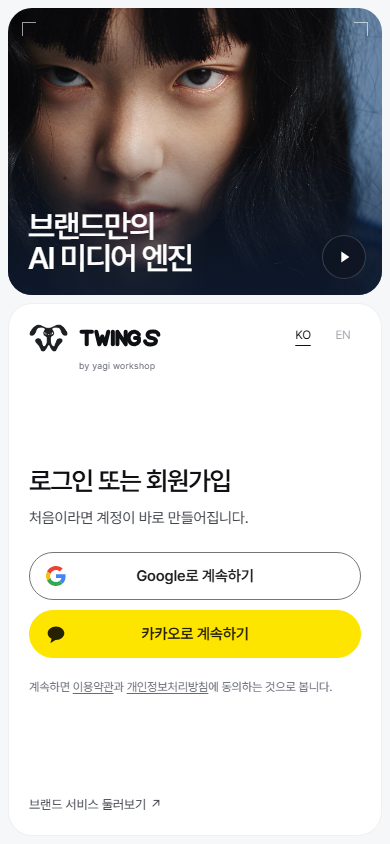
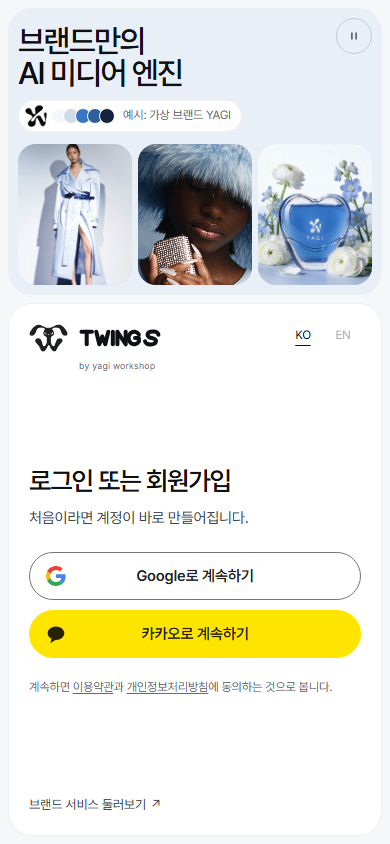
feat(brand-auth): 로그인 무대를 예시 브랜드의 벤토로 바꾸고 3차 검증 지적 반영
어두운 히어로 필름 대신 예시 브랜드의 룩·필름·제품을 같은 색의 벤토로 보여
"브랜드만의 AI 미디어 엔진"을 화면으로 증명한다. 로그인을 h1로 올리고, 초대
전용 제목을 더하고, 작은 휴대폰과 초대 휴대폰에서는 버튼을 먼저 보인다. 필름은
화면에 있을 때만 재생한다.

diff --git a/components/auth/brand-entry.module.css b/components/auth/brand-entry.module.css
@@ -1,11 +1,12 @@
 /*
  * The brand sign-in door. Values copy lib/design/identity.ts, like components/brand-studio/v7.module.css.
- * Techniques (docs/design/TOOLBOX.md, four): inset full-bleed film frame with crosshairs, double-ring card
- * with concentric radius, one dark-glass control on the film, the spring on press and focus.
+ * Techniques (docs/design/TOOLBOX.md, four): gallery wall of one brand's media, blur-to-sharp reveal,
+ * double-ring card with concentric radius, the spring on press. Dark glass only on the media chips.
  */
 .page {
   --id-paper: #ffffff;
   --id-canvas: #f6f7f9;
+  --id-sky: #e8eff7;
   --id-ink: #0e1013;
   --id-body: #41444d;
   --id-muted: #676b75;
@@ -29,45 +30,24 @@
 }
 .layout { display: grid; grid-template-columns: minmax(0, 1fr) minmax(380px, 460px); gap: 14px; min-height: calc(100svh - 28px); }
 
-/* ---------- The film ---------- */
-.frame { position: relative; overflow: hidden; min-width: 0; border-radius: 24px; background: #e8eff7; isolation: isolate; }
-.film { position: absolute; inset: 0; width: 100%; height: 100%; object-fit: cover; object-position: 50% 30%; }
-.scrim { position: absolute; inset: 0; background: linear-gradient(0deg, rgb(14 28 52 / 0.78) 0%, rgb(14 28 52 / 0.46) 26%, rgb(14 28 52 / 0) 56%); }
-.title {
-  position: absolute;
-  left: clamp(20px, 4vw, 56px);
-  right: 88px;
-  bottom: clamp(24px, 4vw, 56px);
-  color: #ffffff;
-  font-size: clamp(2.25rem, 4.6vw, 4.75rem);
-  font-weight: 540;
-  line-height: 1.02;
-  letter-spacing: -0.052em;
-  white-space: pre-line;
-  word-break: keep-all;
-}
-.pause {
-  position: absolute;
-  right: clamp(20px, 3vw, 32px);
-  bottom: clamp(24px, 4vw, 56px);
-  display: grid;
-  place-items: center;
-  width: 44px;
-  height: 44px;
-  border: 1px solid rgb(255 255 255 / 0.18);
-  border-radius: 999px;
-  color: #ffffff;
-  background: rgb(18 18 22 / 0.65);
-  -webkit-backdrop-filter: blur(24px) saturate(190%);
-  backdrop-filter: blur(24px) saturate(190%);
-  cursor: pointer;
-}
-.pause svg { width: 18px; height: 18px; }
-.frame .pause:focus-visible { outline-color: #ffffff; }
-.crosshairs { position: absolute; inset: 14px; pointer-events: none; }
-.crosshairs::before, .crosshairs::after { content: ''; position: absolute; top: 0; width: 14px; height: 14px; border-color: rgb(255 255 255 / 0.6); border-style: solid; }
-.crosshairs::before { left: 0; border-width: 1px 0 0 1px; }
-.crosshairs::after { right: 0; border-width: 1px 1px 0 0; }
+/* ---------- One brand's world: the same palette through look, film and product ---------- */
+.stage { position: relative; display: flex; flex-direction: column; overflow: hidden; min-width: 0; min-height: 0; border-radius: 24px; background: var(--id-sky); isolation: isolate; }
+.stageHead { padding: clamp(24px, 2.8vw, 44px) clamp(14px, 1.4vw, 22px) 0; }
+.title { color: var(--id-ink); font-size: clamp(2rem, 3.9vw, 4rem); font-weight: 540; line-height: 1.02; letter-spacing: -0.052em; white-space: pre-line; word-break: keep-all; }
+.kit { display: flex; width: fit-content; align-items: center; gap: 12px; margin-top: 18px; padding: 7px 14px 7px 10px; border: 1px solid rgb(0 0 0 / 0.06); border-radius: 999px; background: var(--id-paper); font-size: 12px; color: var(--id-muted); }
+.kit img { width: 22px; height: 22px; }
+.swatches { display: flex; }
+.swatches i { width: 16px; height: 16px; border-radius: 50%; border: 1.5px solid var(--id-paper); margin-left: -4px; }
+.wall { flex: 1; min-height: 0; display: grid; grid-template-columns: 1.08fr 1fr 1fr; grid-template-rows: repeat(2, minmax(0, 1fr)); gap: clamp(8px, 0.9vw, 14px); margin-top: clamp(20px, 2.4vw, 32px); padding: 0 clamp(14px, 1.4vw, 22px) clamp(14px, 1.4vw, 22px); }
+.tile { position: relative; overflow: hidden; border-radius: 18px; background: #d0dbe7; animation: focusIn 900ms cubic-bezier(0.22, 1, 0.36, 1) both; animation-delay: calc(var(--i) * 70ms); }
+.tile:nth-child(-n+2) { grid-row: span 2; }
+.tile img, .tile video { position: absolute; inset: 0; width: 100%; height: 100%; object-fit: cover; }
+.tile:nth-child(1) img { object-position: 50% 30%; }
+.tile:nth-child(4) video { object-position: 50% 62%; }
+.pause { position: absolute; z-index: 1; top: clamp(14px, 1.8vw, 26px); right: clamp(14px, 1.4vw, 22px); display: grid; place-items: center; width: 36px; height: 36px; border: 1px solid rgb(14 16 19 / 0.16); border-radius: 999px; color: var(--id-body); cursor: pointer; }
+.pause::after { content: ''; position: absolute; inset: -4px; }
+.pause svg { width: 14px; height: 14px; }
+@keyframes focusIn { from { opacity: 0; filter: blur(8px); transform: translateY(14px); } to { opacity: 1; filter: blur(0); transform: none; } }
 
 /* ---------- The door ---------- */
 .card {
@@ -87,8 +67,9 @@
 .languages a { min-width: 36px; min-height: 44px; display: grid; place-items: center; color: var(--id-muted); }
 .languages a[aria-current] { color: var(--id-ink); text-decoration: underline; text-underline-offset: 6px; }
 .login { margin: auto 0; padding: 48px 0; }
-.login h2 { font-size: clamp(1.625rem, 2.2vw, 2rem); font-weight: 560; line-height: 1.06; letter-spacing: -0.045em; word-break: keep-all; }
+.login h1 { font-size: clamp(1.625rem, 2.2vw, 2rem); font-weight: 560; line-height: 1.06; letter-spacing: -0.045em; word-break: keep-all; }
 .loginHint { margin-top: 12px; font-size: 15px; line-height: 1.62; color: var(--id-body); }
+.login [role='alert'] { padding: 12px 14px; border: 0; border-radius: 14px; background: color-mix(in srgb, var(--id-accent) 9%, var(--id-paper)); color: var(--id-ink); font-size: 14px; font-weight: 500; }
 .providers { display: flex; flex-direction: column; gap: 10px; margin-top: 32px; }
 /* Pills, as every button on this side. Google's and Kakao's colours and marks stay theirs. */
 .providers a { border-radius: 999px; transition: transform 240ms cubic-bezier(0.22, 1, 0.36, 1); transition: transform 240ms var(--id-spring); }
@@ -116,19 +97,39 @@
 .address p { border-color: var(--id-line-strong); border-radius: 18px; background: var(--id-canvas); }
 .webviewHint { margin-top: 14px; font-size: 13px; line-height: 1.62; color: var(--id-muted); word-break: keep-all; }
 
+@media (max-height: 700px) and (min-width: 861px) {
+  .login { padding: 20px 0; }
+  .providers { margin-top: 20px; }
+}
 @media (max-width: 860px) {
   .page { padding: 8px; }
-  .layout { grid-template-columns: minmax(0, 1fr); grid-template-rows: 34svh auto; gap: 8px; min-height: calc(100svh - 16px); }
-  .frame { min-height: 220px; }
-  .title { font-size: clamp(1.75rem, 8vw, 2.5rem); right: 72px; bottom: 20px; left: 20px; }
-  .pause { right: 16px; bottom: 16px; }
-  .film { object-position: 76% 40%; }
+  .layout { grid-template-columns: minmax(0, 1fr); grid-template-rows: minmax(276px, 34svh) 1fr; gap: 8px; min-height: calc(100svh - 16px); }
+  .stageHead { padding: 18px 10px 0; }
+  .title { font-size: clamp(1.75rem, 8vw, 2.5rem); padding-right: 40px; }
+  .kit { margin-top: 10px; padding: 4px 10px 4px 6px; gap: 8px; }
+  .wall { grid-template-columns: repeat(3, 1fr); grid-template-rows: minmax(0, 1fr); margin-top: 12px; padding: 0 10px 10px; gap: 6px; }
+  .tile:nth-child(4) { display: none; }
+  .tile:nth-child(-n+2) { grid-row: auto; }
+  .tile:nth-child(1) img { object-position: 50% 22%; }
+  .pause { top: 10px; right: 10px; }
   .card { padding: 20px 20px 8px; }
-  .login { padding: 28px 0 20px; }
+  .login { max-width: 440px; padding: 28px 0 20px; }
   .providers { margin-top: 22px; }
   .webview { margin: 0 auto; transform: none; position: relative; top: 8svh; }
 }
+/* Short phones, and invited teammates: the door comes first. */
+@media (max-width: 860px) and (max-height: 760px) {
+  .layout { grid-template-rows: auto 1fr; }
+  .stage .wall, .stage .pause { display: none; }
+  .stageHead { padding-bottom: 16px; }
+}
+@media (max-width: 860px) {
+  .layout:has(.stage[data-compact]) { grid-template-rows: auto 1fr; }
+  .stage[data-compact] .wall, .stage[data-compact] .pause { display: none; }
+  .stage[data-compact] .stageHead { padding-bottom: 16px; }
+}
 @media (prefers-reduced-motion: reduce) {
+  .tile { animation: none; }
   .providers a { transition: none; }
   .providers a:hover, .providers a:active { transform: none; }
 }

diff --git a/components/auth/brand-entry-stage.tsx b/components/auth/brand-entry-stage.tsx
@@ -1,0 +1,94 @@
+'use client';
+
+import { useEffect, useRef, useState, type CSSProperties } from 'react';
+import styles from './brand-entry.module.css';
+
+/** The landing's demo brand (components/brand-studio/v7.tsx): one palette through look, film and product. */
+const PALETTE = ['#f3f7fa', '#d0dbe7', '#3875c5', '#2e5f9f', '#16233f'] as const;
+const WALL = [
+  { image: 'look-coat.webp' },
+  { image: 'v7/feed-blue.jpg', film: 'v7/feed-blue.mp4' },
+  { image: 'cut-flower.webp' },
+  { image: 'v7/dir-clip.jpg', film: 'v7/dir-clip.mp4' },
+] as const;
+
+/**
+ * What a brand gets, beside the sign-in door. Auth stays server-rendered; this island only plays the two
+ * short films, and only while they are on screen. They stay on their posters under prefers-reduced-motion,
+ * and the reader can pause them.
+ */
+export function BrandEntryStage({ title, exampleLabel, playLabel, pauseLabel, assetOrigin, compact }: {
+  title: string;
+  exampleLabel: string;
+  playLabel: string;
+  pauseLabel: string;
+  assetOrigin: string;
+  /** Invited teammates already know why they are here: phones go straight to the door. */
+  compact: boolean;
+}) {
+  const wall = useRef<HTMLDivElement>(null);
+  const wanted = useRef(false);
+  const onScreen = useRef(new Set<HTMLVideoElement>());
+  const [playing, setPlaying] = useState(false);
+  const src = (name: string) => `${assetOrigin}/reel/landing/${name}`;
+
+  const toggle = (play: boolean) => {
+    wanted.current = play;
+    setPlaying(play);
+    onScreen.current.forEach(film => {
+      if (play) void film.play().catch(() => {});
+      else film.pause();
+    });
+  };
+
+  useEffect(() => {
+    if (!window.matchMedia('(prefers-reduced-motion: reduce)').matches) {
+      wanted.current = true;
+      setPlaying(true);
+    }
+    const visible = onScreen.current;
+    const observer = new IntersectionObserver(entries => {
+      entries.forEach(entry => {
+        const film = entry.target as HTMLVideoElement;
+        if (entry.isIntersecting) {
+          visible.add(film);
+          if (wanted.current) void film.play().catch(() => {});
+        } else {
+          visible.delete(film);
+          film.pause();
+        }
+      });
+    });
+    wall.current?.querySelectorAll('video').forEach(film => observer.observe(film));
+    return () => observer.disconnect();
+  }, []);
+
+  return (
+    <section data-brand-auth-stage data-compact={compact || undefined} className={styles.stage}>
+      <div className={styles.stageHead}>
+        <p className={styles.title}>{title}</p>
+        <p data-brand-auth-kit className={styles.kit}>
+          {/* eslint-disable-next-line @next/next/no-img-element */}
+          <img src={`${assetOrigin}/brand/yagi-mark-black.png`} alt="" width={22} height={22} />
+          <span className={styles.swatches} aria-hidden="true">{PALETTE.map(hex => <i key={hex} style={{ background: hex }} />)}</span>
+          {exampleLabel}
+        </p>
+      </div>
+      <button type="button" data-brand-auth-pause className={styles.pause} aria-label={playing ? pauseLabel : playLabel}
+        onClick={() => toggle(!playing)}>
+        {playing ? <svg viewBox="0 0 20 20" aria-hidden="true"><path d="M7 5v10M13 5v10" stroke="currentColor" strokeWidth="2" /></svg>
+          : <svg viewBox="0 0 20 20" aria-hidden="true"><path d="m7 4 9 6-9 6Z" fill="currentColor" /></svg>}
+      </button>
+      <div ref={wall} className={styles.wall} aria-hidden="true">
+        {WALL.map((item, index) => (
+          <div key={item.image} className={styles.tile} style={{ '--i': index } as CSSProperties}>
+            {'film' in item
+              ? <video src={src(item.film)} poster={src(item.image)} muted loop playsInline preload="metadata" />
+              // eslint-disable-next-line @next/next/no-img-element
+              : <img src={src(item.image)} alt="" width={1000} height={1500} decoding="async" />}
+          </div>
+        ))}
+      </div>
+    </section>
+  );
+}

diff --git a/app/(app)/auth/choose/page.tsx b/app/(app)/auth/choose/page.tsx
@@ -8,14 +8,14 @@ import { legalDocument } from '@/lib/legal/documents';
 import { legalHref } from '@/lib/legal/links';
 import { authReturnPath, isAdminPath, isBrandPath } from '@/lib/routing/surfaces';
 import { publicHref, requestSurface } from '@/lib/routing/request-surface';
-import { BrandEntryFilm } from '@/components/auth/brand-entry-film';
+import { BrandEntryStage } from '@/components/auth/brand-entry-stage';
 import styles from '@/components/auth/brand-entry.module.css';
 
 /**
  * `/auth/choose?next=…&locale=…` — the sign-in door (docs/TEMPLATES-IA.md §8).
  *
  * Provider links, consent and copy render on the server, without a session read. Brand entry
- * sets the door beside the /brands hero film; consumer/admin entry stays compact. The (app) layout supplies noindex and force-dynamic; middleware owns locale/host.
+ * sets the door beside the demo brand's world from /brands; consumer/admin entry stays compact. The (app) layout supplies noindex and force-dynamic; middleware owns locale/host.
  *
  * Both buttons follow their owner's brand rules: Google's is white with the four-colour "G", the
  * #747775 border and the name in mixed case (never "GOOGLE", so no `uppercase` here); Kakao's is
@@ -141,11 +141,12 @@ export default async function ChooseProviderPage(props: RouteProps) {
   if (brandEntry) {
     const copy = dict.auth.brandEntry;
     const hero = dict.brandLanding.v7.hero;
+    const invited = nextPath === '/brand/invite';
     return (
       <main data-auth-choose data-brand-auth className={styles.page}>
         <div className={styles.layout}>
-          <BrandEntryFilm title={hero.title} filmLabel={hero.filmLabel} playLabel={copy.play} pauseLabel={copy.pause}
-            assetOrigin={admin ? 'https://twings.app' : ''} />
+          <BrandEntryStage title={hero.title} exampleLabel={dict.brandLanding.v7.first.kit.example} playLabel={copy.play} pauseLabel={copy.pause}
+            assetOrigin={admin ? 'https://twings.app' : ''} compact={invited} />
           <div className={styles.card}>
             <header className={styles.header}>
               <a href={publicHref(`/${locale}`, admin)} className={styles.logo}>
@@ -155,8 +156,8 @@ export default async function ChooseProviderPage(props: RouteProps) {
               <nav data-auth-language className={styles.languages}>{languageLinks}</nav>
             </header>
             <section className={styles.login} aria-labelledby="brand-auth-title">
-              <h2 id="brand-auth-title">{dict.auth.chooseTitle}</h2>
-              <p className={styles.loginHint}>{dict.auth.chooseLede}</p>
+              <h1 id="brand-auth-title">{invited ? copy.inviteTitle : dict.auth.chooseTitle}</h1>
+              <p className={styles.loginHint}>{invited ? dict.brandWorkspace.inviteLogin : dict.auth.chooseLede}</p>
               {authError}
               <div className={styles.providers}>{providers}</div>
               <p data-auth-legal className={styles.legal}>{legal}</p>

diff --git a/tests/routes/brand-auth-experience.test.tsx b/tests/routes/brand-auth-experience.test.tsx
@@ -15,14 +15,20 @@ describe('brand login experience', () => {
     context.surface = 'brand';
     const html = await page();
     expect(html).toContain('data-brand-auth');
-    expect(html).toContain('data-brand-auth-film');
+    expect(html).toContain('data-brand-auth-stage');
     expect(html).toContain('AI 미디어 엔진');
     expect(html).toContain('next=%2Fbrand');
     expect(html).toContain('https://twings.app/ko/legal/terms');
-    // The landing's own hero film, from the host that serves public media; playback starts in the island.
-    expect(html).toContain('https://twings.app/reel/landing/v7/hero.mp4');
-    expect(html).toContain('poster="https://twings.app/reel/landing/v7/hero.jpg"');
+    // Public media of the landing's demo brand, from the host that serves it; playback starts in the island.
+    expect(html).toContain('https://twings.app/reel/landing/cut-flower.webp');
+    expect(html).toContain('https://twings.app/reel/landing/v7/dir-clip.mp4');
     expect(html).not.toContain('autoPlay=');
+    // Clearly a demo brand, not a client: the kit carries the example label.
+    expect(html).toContain('data-brand-auth-kit');
+    // A login stays calm: not the landing's fast-cut dark hero again.
+    expect(html).not.toContain('v7/hero');
+    // The act is the page's heading; the category line beside it is not.
+    expect(html.match(/<h1[^>]*>[^<]*/)?.[0]).toContain('로그인 또는 회원가입');
     // One message: the old agency pitch and its pink carousel stay gone.
     expect(html).not.toContain('목표와 예산');
     expect(html).not.toContain('public-content/');
@@ -60,10 +66,16 @@ describe('brand login experience', () => {
   it('renders English copy and usable non-JavaScript login links with a static initial showcase', async () => {
     const html = await page({ next: '/brand', locale: 'en' });
     expect(html).toContain('Your brand');
-    expect(html).toContain('data-brand-auth-film');
+    expect(html).toContain('data-brand-auth-stage');
     expect(html).toContain('data-brand-auth-pause');
     expect(html).toContain('href="/auth/signin?provider=google');
     expect(html).not.toContain('목표와 예산');
+  });
+  it('tells invited readers which account to use', async () => {
+    const invited = await page({ next: '/brand/invite' });
+    expect(invited).toContain('초대받은 이메일 계정으로 로그인해 주세요');
+    expect(invited.match(/<h1[^>]*>[^<]*/)?.[0]).toContain('초대를 수락하려면');
+    expect(await page({ next: '/brand' })).not.toContain('초대받은 이메일 계정으로');
   });
   it('keeps the consumer and admin doors as they were', async () => {
     for (const surface of ['consumer', 'admin']) {

diff --git a/scripts/sweep-anon.ts b/scripts/sweep-anon.ts
@@ -829,7 +829,7 @@ async function sweepWebViewSignin(): Promise<void> {
     const brandChooser = await request(`/auth/choose?next=%2Fbrand&locale=${locale}`);
     expectEqual(`brand chooser ${locale} renders`, brandChooser.status, 200);
     expectPresent(`brand chooser ${locale} explains the service`, brandChooser.body, 'data-brand-auth');
-    expectPresent(`brand chooser ${locale} shows the film`, brandChooser.body, 'data-brand-auth-film');
+    expectPresent(`brand chooser ${locale} shows the brand world`, brandChooser.body, 'data-brand-auth-stage');
     expectPresent(`brand chooser ${locale} keeps login`, brandChooser.body, 'data-auth-provider="google"');
     expectPresent(`brand chooser ${locale} keeps consent`, brandChooser.body, 'data-auth-legal');
   }

diff --git a/messages/ko.ts b/messages/ko.ts
@@ -2774,6 +2774,7 @@ export const ko: Dictionary = {
     chooseLegal: '계속하면 {terms}과 {privacy}에 동의하는 것으로 봅니다.',
     chooseBack: '돌아가기',
     brandEntry: {
+      inviteTitle: '초대를 수락하려면 로그인해 주세요',
       more: '브랜드 서비스 둘러보기',
       play: '영상 재생',
       pause: '영상 멈추기',

diff --git a/messages/en.ts b/messages/en.ts
@@ -2764,6 +2764,7 @@ export const en = {
     chooseLegal: 'By continuing, you agree to the {terms} and {privacy}.',
     chooseBack: 'Back',
     brandEntry: {
+      inviteTitle: 'Log in to accept your invitation',
       more: 'See TWINGS for Brands',
       play: 'Play film',
       pause: 'Pause film',

diff --git a/docs/design/TASTE.md b/docs/design/TASTE.md
@@ -52,7 +52,7 @@
 | 2026-10-30 | /brands 히어로 | 좋음 | 패션 필름 "아주 좋다". 뷰티 재촬영은 여섯 번 시도 뒤 빼고 "패션만 넣자" | 히어로는 패션 필름만. 뷰티 광고는 대표가 좋아한 원본 핑크 향수 광고를 쓴다 | `docs/design/IDENTITY.md` §6-5 |
 | 2026-10-31 | 개인 쪽 카드·아바타 | 판단(대표 위임) | 표시 문제는 판단해서 고치라는 지시 | 글자 포스터는 카드 폭에 맞춰 단어를 끊지 않는다. 사진 없는 크리에이터 아바타는 블루 하나 | 이 PR |
 | 2026-10-31 | 만들기 팝업 | 싫음 | "스크롤 내리면 팝업이 내려가는 게 아니라 백그라운드가 내려감" | 팝업은 자기 내용만 스크롤한다. 얼굴 선택 버튼도 pill | 이 PR |
-| 2026-10-31 | brand.twings.app 로그인 | 싫음 | "로그인 화면 디자인이 매우 구리다" | 왼쪽은 /brands 히어로 필름과 같은 제목, 오른쪽은 흰 카드 하나의 로그인. 분홍 영상 캐러셀과 대행사 소개 문구를 뺐다. 제공사 버튼도 pill | 이 PR |
+| 2026-10-31 | brand.twings.app 로그인 | 싫음 | "로그인 화면 디자인이 매우 구리다" | 왼쪽은 예시 브랜드의 룩·제품·필름 벤토와 /brands와 같은 제목, 오른쪽은 흰 카드 하나의 로그인. 분홍 영상 캐러셀과 대행사 소개 문구를 뺐다. 제공사 버튼도 pill | 이 PR |
 
 ## 승인된 우리 화면 캡처
 
